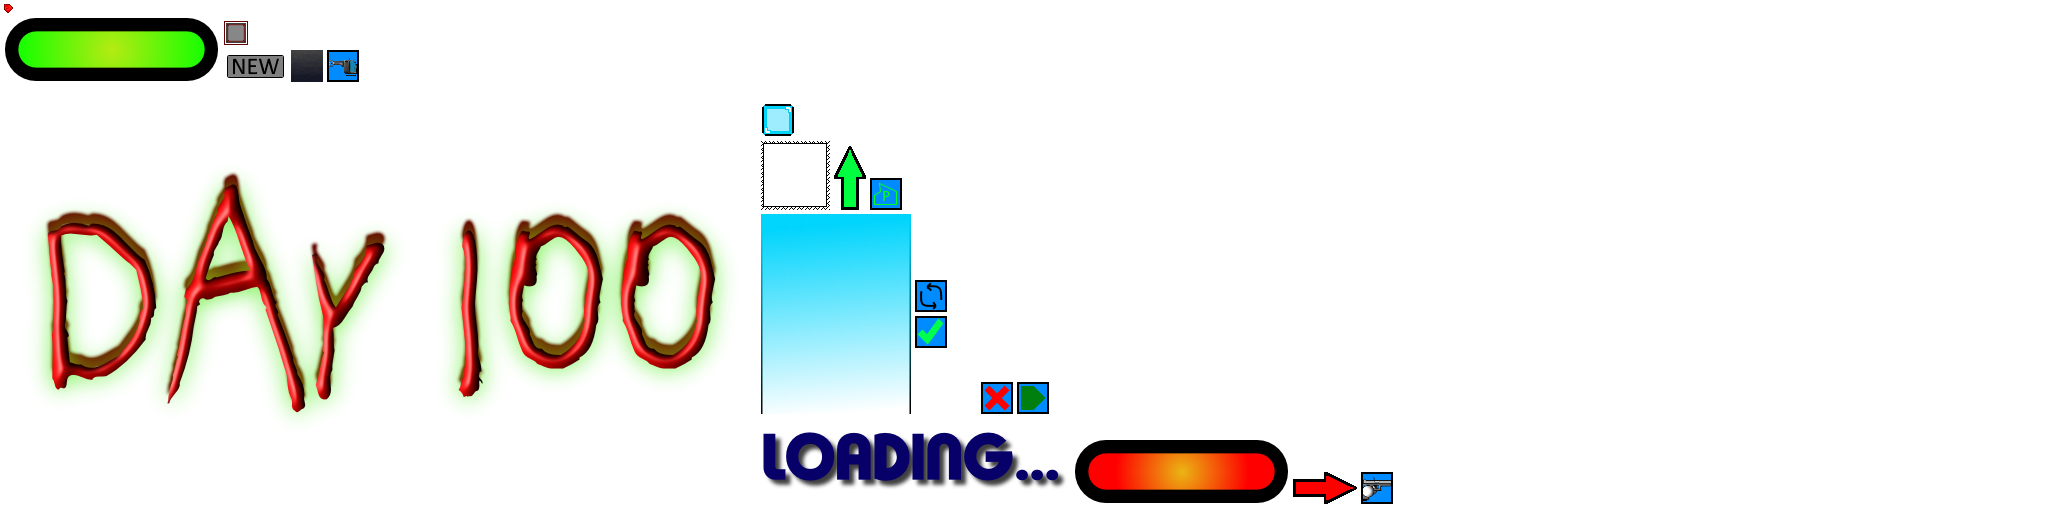
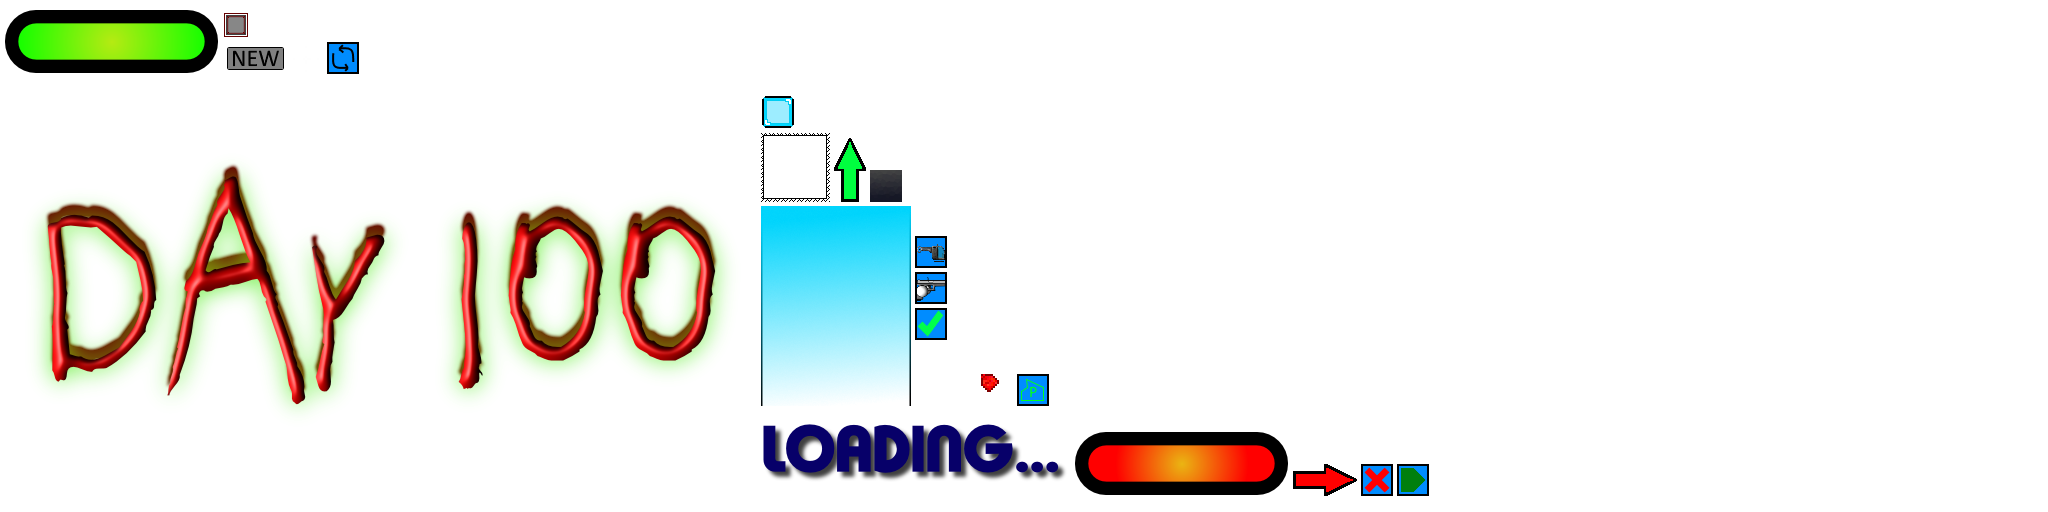
Small changes, new cursors applied

diff --git a/src/co/uk/epicguru/main/Day100.java b/src/co/uk/epicguru/main/Day100.java
@@ -3,7 +3,7 @@ package co.uk.epicguru.main;
 import com.badlogic.gdx.ApplicationAdapter;
 import com.badlogic.gdx.Gdx;
 import com.badlogic.gdx.assets.AssetManager;
-import com.badlogic.gdx.graphics.GL20;
+import com.badlogic.gdx.graphics.Cursor;
 import com.badlogic.gdx.graphics.OrthographicCamera;
 import com.badlogic.gdx.graphics.Pixmap;
 import com.badlogic.gdx.graphics.Pixmap.Format;
@@ -18,6 +18,7 @@ import co.uk.epicguru.helpers.CamShake;
 import co.uk.epicguru.input.Input;
 import co.uk.epicguru.map.Map;
 import co.uk.epicguru.player.PlayerController;
+import co.uk.epicguru.screens.PostProcessing;
 import co.uk.epicguru.screens.Screen;
 import co.uk.epicguru.screens.ScreenManager;
 import co.uk.epicguru.screens.instances.Loading;
@@ -47,8 +48,8 @@ public class Day100 extends ApplicationAdapter {
 	public static TextureAtlas particlesAtlas;
 	public static Map map;
 	public static PlayerController player;
-	public static Pixmap cursor;
-	public static Pixmap cursorCrosshair;
+	public static Cursor cursor;
+	public static Cursor cursorCrosshair;
 
 	@Override
 	public void create () {
@@ -102,6 +103,9 @@ public class Day100 extends ApplicationAdapter {
 		assets.load("Cache/Building.atlas", TextureAtlas.class);
 		assets.load("Cache/Vehicles.atlas", TextureAtlas.class);
 		assets.load("Cache/Particles.atlas", TextureAtlas.class);
+		
+		// Needs to be done
+		PostProcessing.start();
 	}
 
 	public void packTextures(){
@@ -145,28 +149,32 @@ public class Day100 extends ApplicationAdapter {
 	public static void loadCursors(){
 		// Default
 		TextureRegion texture = UIAtlas.findRegion("Cursor");
-		cursor = new Pixmap(texture.getRegionWidth(), texture.getRegionHeight(), Format.RGBA8888);
+		Pixmap cursor = new Pixmap(texture.getRegionWidth(), texture.getRegionHeight(), Format.RGBA8888);
 		texture.getTexture().getTextureData().prepare();
 		Pixmap p2 = texture.getTexture().getTextureData().consumePixmap();
 		cursor.drawPixmap(p2, 0, 0, texture.getRegionX(), texture.getRegionY(), texture.getRegionWidth(), texture.getRegionHeight());
 	
 		// Crosshair version
 		texture = UIAtlas.findRegion("CursorCrosshair");
-		cursorCrosshair = new Pixmap(texture.getRegionWidth(), texture.getRegionHeight(), Format.RGBA8888);
+		Pixmap cursorCrosshair = new Pixmap(texture.getRegionWidth(), texture.getRegionHeight(), Format.RGBA8888);
 		texture.getTexture().getTextureData().prepare();
 		p2 = texture.getTexture().getTextureData().consumePixmap();
 		cursorCrosshair.drawPixmap(p2, 0, 0, texture.getRegionX(), texture.getRegionY(), texture.getRegionWidth(), texture.getRegionHeight());
 	
 		// Apply
+		Day100.cursor = Gdx.graphics.newCursor(cursor, 0, 0);
+		Day100.cursorCrosshair = Gdx.graphics.newCursor(cursorCrosshair, 16, 16);
 		
+		// Set default
+		setDefaultCursor();
 	}
 	
 	public static void setDefaultCursor(){
-		
+		Gdx.graphics.setCursor(cursor);
 	}
 	
 	public static void setCrosshairCursor(){
-		
+		Gdx.graphics.setCursor(cursorCrosshair);		
 	}
 
 	public void update(){
@@ -201,17 +209,14 @@ public class Day100 extends ApplicationAdapter {
 
 		update();
 
-		if(ScreenManager.getScreen() == Screen.LOADING)
-			Gdx.gl.glClearColor(0.2f, 0.2f, 0.2f, 1);
-		else
-			Gdx.gl.glClearColor(0.9f, 0.9f, 0.9f, 1);
-		Gdx.gl.glClear(GL20.GL_COLOR_BUFFER_BIT);
-
-		// Normal render mode
-		batch.setProjectionMatrix(camera.combined);
-		batch.begin();
+		// Start batch
+		PostProcessing.beginRender(batch);
+		
+		// Normal render mode		
 		ScreenManager.render();	
-		batch.end();
+		
+		// End batch
+		PostProcessing.endRender(batch);
 
 		// UI render mode
 		batch.setProjectionMatrix(UIcamera.combined);
@@ -225,6 +230,7 @@ public class Day100 extends ApplicationAdapter {
 		UIcamera.setToOrtho(false, width, height);
 		camera.viewportWidth = width / Constants.PPM;
 		camera.viewportHeight = height / Constants.PPM;
+		PostProcessing.resize(width, height);
 		ScreenManager.resize(width, height);
 	}
 
@@ -233,6 +239,7 @@ public class Day100 extends ApplicationAdapter {
 		try{
 			ScreenManager.dispose();
 			GameSettings.save();
+			PostProcessing.end();
 			batch.dispose();
 			assets.dispose();
 			UIAtlas.dispose();

diff --git a/src/co/uk/epicguru/screens/PostProcessing.java b/src/co/uk/epicguru/screens/PostProcessing.java
@@ -1,0 +1,98 @@
+package co.uk.epicguru.screens;
+
+import com.badlogic.gdx.Gdx;
+import com.badlogic.gdx.graphics.Color;
+import com.badlogic.gdx.graphics.GL20;
+import com.badlogic.gdx.graphics.Pixmap.Format;
+import com.badlogic.gdx.graphics.g2d.Batch;
+import com.badlogic.gdx.graphics.g2d.TextureRegion;
+import com.badlogic.gdx.graphics.glutils.FrameBuffer;
+
+import co.uk.epicguru.main.Day100;
+
+// Post processing effects
+public class PostProcessing {
+
+	private static boolean ready = false;
+	public static FrameBuffer fbo;
+	public static TextureRegion fboRegion;
+
+	public static void beginRender(Batch batch){
+
+		// Clear FBO or batch
+		if(ScreenManager.getScreen() == Screen.LOADING)
+			Gdx.gl.glClearColor(0.2f, 0.2f, 0.2f, 1);
+		else
+			Gdx.gl.glClearColor(0.9f, 0.9f, 0.9f, 1);
+		Gdx.gl.glClear(GL20.GL_COLOR_BUFFER_BIT);
+
+//		if(ready){
+//			fbo.begin();
+//		}
+
+		// Clear FBO or batch
+		if(ScreenManager.getScreen() == Screen.LOADING)
+			Gdx.gl.glClearColor(0.2f, 0.2f, 0.2f, 1);
+		else
+			Gdx.gl.glClearColor(0.9f, 0.9f, 0.9f, 1);
+		Gdx.gl.glClear(GL20.GL_COLOR_BUFFER_BIT);
+
+		// Start batch
+		batch.setProjectionMatrix(Day100.camera.combined);
+		batch.begin();
+	}
+
+	public static void start(){		
+		if(ready)
+			return;
+
+		fbo = new FrameBuffer(Format.RGB888, Gdx.graphics.getWidth(), Gdx.graphics.getHeight(), false);
+		fboRegion = new TextureRegion(fbo.getColorBufferTexture());
+		fboRegion.flip(false, true);
+
+		ready = true;
+	}
+
+	public static void end(){		
+		if(!ready)
+			return;
+
+		ready = false;
+		fbo.dispose();
+		fbo = null;
+	}
+
+	public static void resize(int width, int height){
+		if(!ready)
+			return;
+		fbo = new FrameBuffer(Format.RGB888, width, height, false);
+	}
+
+	public static void endRender(Batch batch){	
+
+		// Stop the batch
+		batch.end();
+
+		// Unbind FBO if ready and running
+//		if(ready)
+//			fbo.end();
+//
+		// Render FBO (again if ready)
+		render(batch);
+	}
+
+	private static void render(Batch batch){
+		if(!ready)
+			return;
+
+		// Start batch up again
+		batch.begin();
+
+		batch.setColor(Color.WHITE);
+		//fboRegion = new TextureRegion(fbo.getColorBufferTexture());
+		//batch.draw(fboRegion, 0, 0);
+
+		// End all
+		batch.end();
+	}	
+}

diff --git a/src/co/uk/epicguru/particles/ParticleTrailer.java b/src/co/uk/epicguru/particles/ParticleTrailer.java
@@ -1,6 +1,5 @@
 package co.uk.epicguru.particles;
 
-import com.badlogic.gdx.graphics.Color;
 import com.badlogic.gdx.graphics.g2d.Batch;
 import com.badlogic.gdx.graphics.g2d.TextureRegion;
 import com.badlogic.gdx.math.MathUtils;
@@ -17,8 +16,8 @@ public class ParticleTrailer extends ParticleInstance{
 		super(position, velocity, time, region);
 //		new Thread(new Runnable() {
 //			public void run() {				
-				light = new FlareLight(position, time, new Color(0, 0, 0, 0.5f), 3);
-				done = true;
+				//light = new FlareLight(position, time, new Color(0, 0, 0, 0.5f), 3);
+				//done = true;
 //			}
 //		}, "Light creator").start();
 		
@@ -33,8 +32,8 @@ public class ParticleTrailer extends ParticleInstance{
 			new ExplosionParticleInstance(getBody().getPosition(), TEMP, 0.4f, this.texture);
 		}
 		super.update(delta);
-		if(done)
-			light.light.setPosition(body.getPosition());
+		//if(done)
+			//light.light.setPosition(body.getPosition());
 	}
 	
 	public void render(Batch batch){
@@ -45,7 +44,7 @@ public class ParticleTrailer extends ParticleInstance{
 		super.destroyed();
 		if(done){
 			try{
-				light.light.remove();				
+				//light.light.remove();				
 			}catch(NullPointerException e){
 				e.printStackTrace();
 			}finally{

diff --git a/src/co/uk/epicguru/player/PlayerController.java b/src/co/uk/epicguru/player/PlayerController.java
@@ -10,6 +10,7 @@ import com.badlogic.gdx.physics.box2d.BodyDef.BodyType;
 import com.badlogic.gdx.physics.box2d.FixtureDef;
 import com.badlogic.gdx.physics.box2d.PolygonShape;
 
+import co.uk.epicguru.helpers.CamZoom;
 import co.uk.epicguru.input.Input;
 import co.uk.epicguru.main.Day100;
 import co.uk.epicguru.map.Entity;
@@ -119,7 +120,7 @@ public final class PlayerController extends Entity{
 				break;
 			case SEMI:
 				if(Input.clickLeft())
-					gunManager.shoot();
+					gunManager.shoot();				
 				break;	
 			}
 		}
@@ -140,6 +141,14 @@ public final class PlayerController extends Entity{
 		if(BuildingManager.placing){
 			gunManager.setEquipped(null);
 		}
+		
+		if(gunManager.getEquipped() != null){		
+			Day100.setCrosshairCursor();
+		}else{			
+			Day100.setDefaultCursor();
+		}
+		
+		Day100.camera.zoom += (CamZoom.getZoom() - Day100.camera.zoom) * 0.5f;
 	}
 	
 	public void render(Batch batch){
@@ -161,6 +170,7 @@ public final class PlayerController extends Entity{
 	public void destroyed(){
 		super.destroyed();
 		gunManager.dispose();
+		Day100.setDefaultCursor();
 	}
 	
 }

diff --git a/src/co/uk/epicguru/helpers/CamZoom.java b/src/co/uk/epicguru/helpers/CamZoom.java
@@ -1,0 +1,17 @@
+package co.uk.epicguru.helpers;
+
+import co.uk.epicguru.main.Day100;
+
+public class CamZoom {
+
+	public static float getZoom(){
+		if(Day100.player == null || Day100.player.isDead() || Day100.player.getBody() == null)
+			return 1;
+		
+		float base = Day100.player.isMounting() ? 1.5f : 0.5f;
+		float shootingAddition = Day100.player.gunManager.getEquipped() == null ? 0 : Day100.player.gunManager.getOffset() > 0 ? Day100.player.gunManager.getOffset() / 1500f : 0;
+		
+		return base + shootingAddition;
+	}
+	
+}

diff --git a/src/co/uk/epicguru/screens/instances/MapEditor.java b/src/co/uk/epicguru/screens/instances/MapEditor.java
@@ -618,7 +618,7 @@ public final class MapEditor extends GameScreen {
 			break;
 		case RUNNING:
 
-			if(Day100.camera.zoom != input.zoom)
+			if(Day100.player.isDead() && Day100.camera.zoom != input.zoom)
 				Day100.camera.zoom += (input.zoom - Day100.camera.zoom) * 0.2f;
 
 			// Move with mouse
